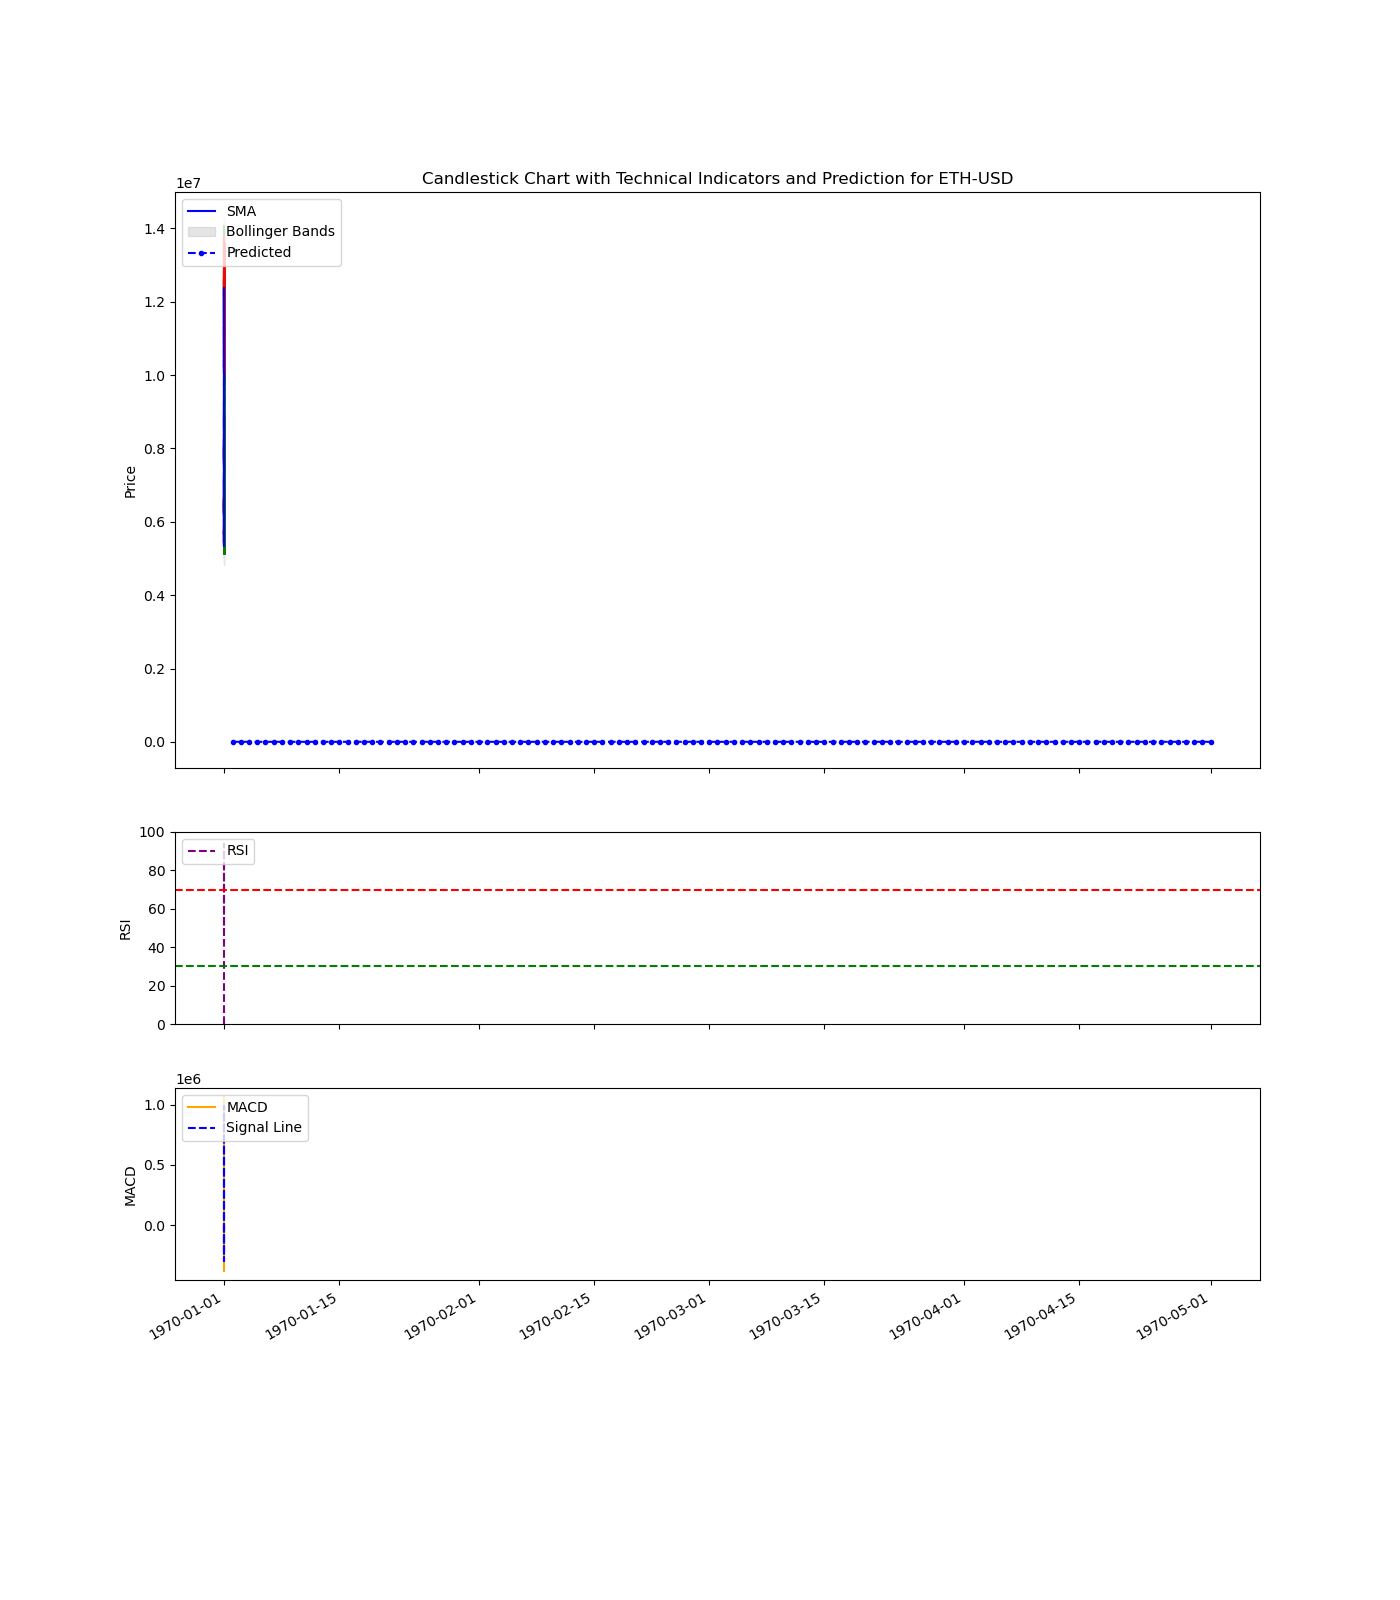
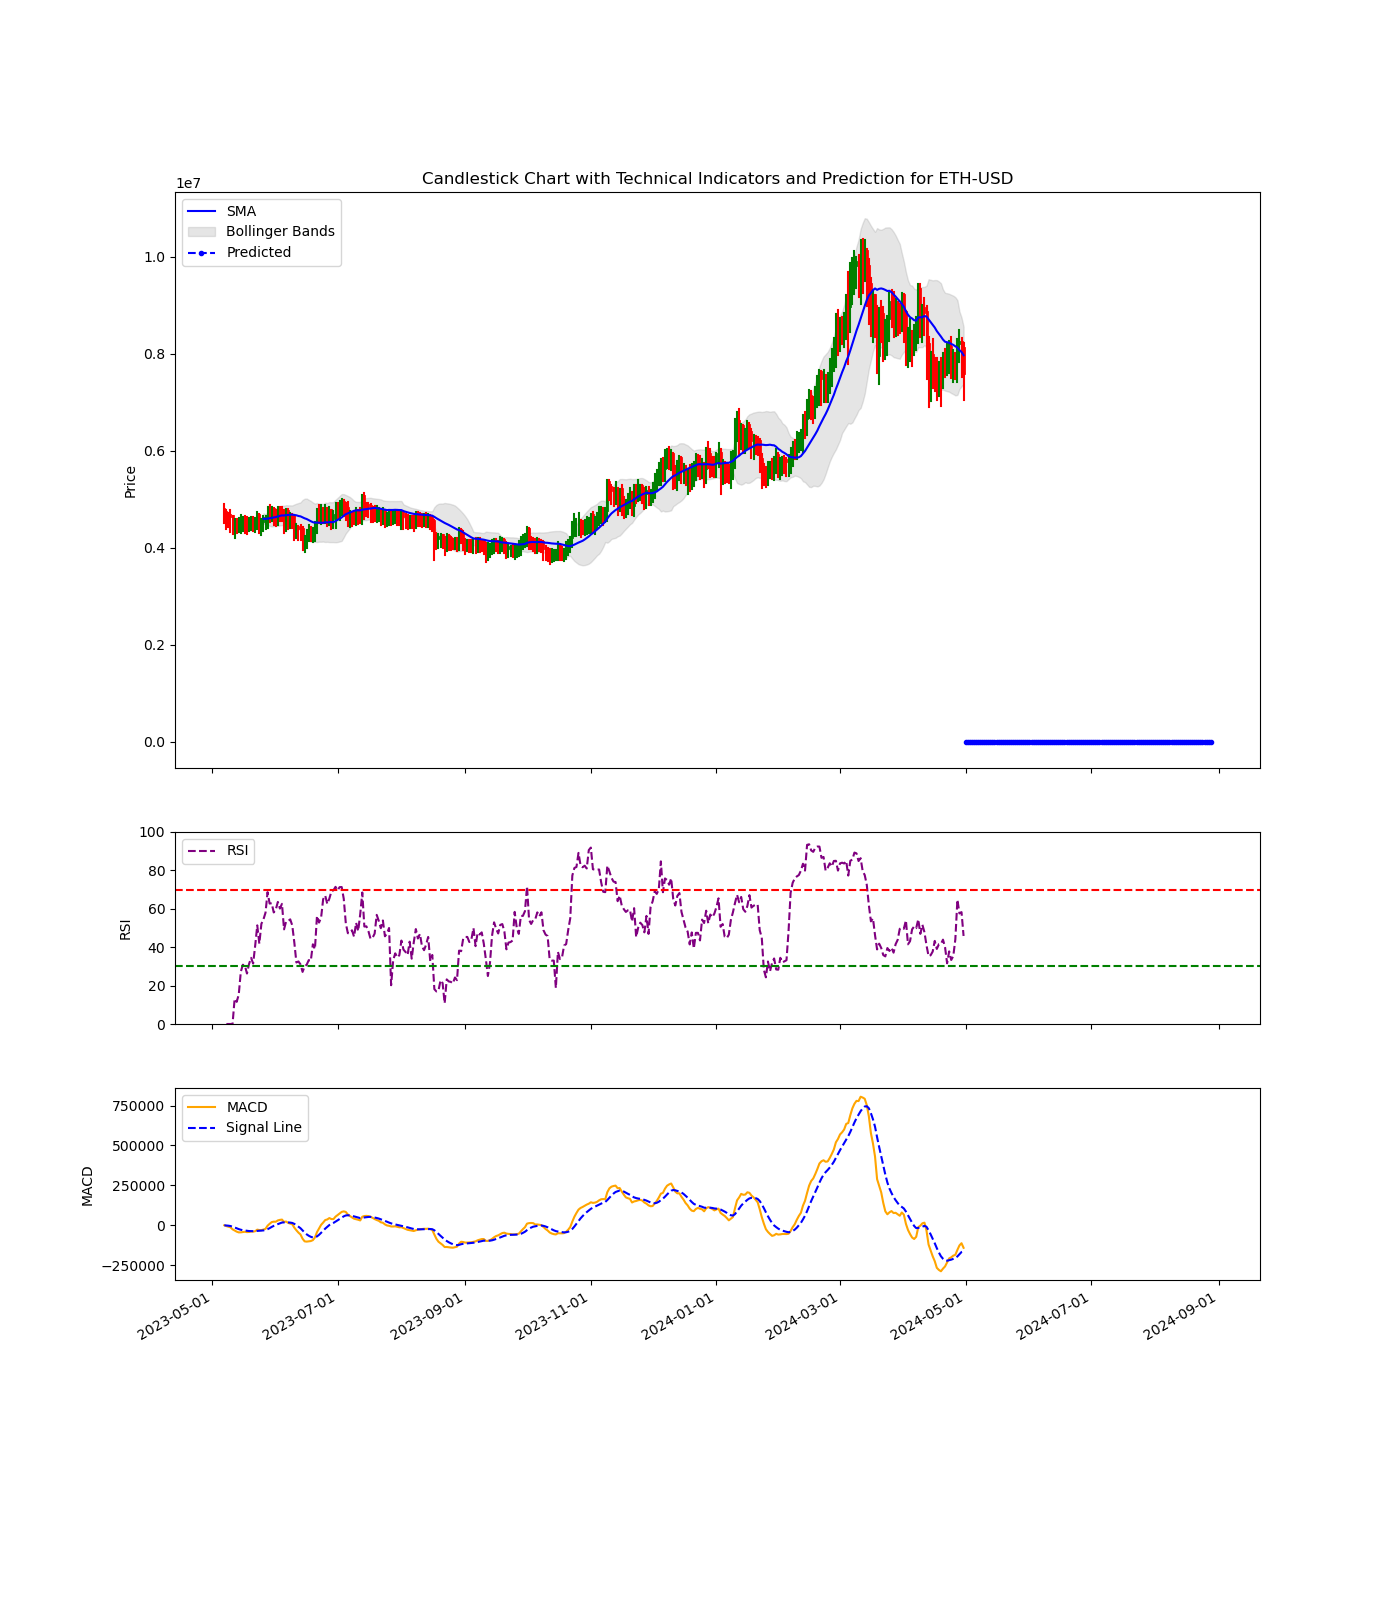
'train' graph corrected, prediciton not good

diff --git a/predictor.py b/predictor.py
@@ -12,7 +12,7 @@ import yfinance as yf
 from sklearn.model_selection import TimeSeriesSplit
 import os
 
-plt.switch_backend('agg')
+
 
 def get_yahoo_finance_data(tickers, interval='1d', start='2023-04-01', end='2024-05-01'):
     all_data = pd.DataFrame()
@@ -58,14 +58,15 @@ def compute_bollinger_bands(series, window=20, num_std_dev=2):
 def normalize_data(df):
     scaler = MinMaxScaler()
     feature_columns = ['Open', 'High', 'Low', 'Close', 'SMA', 'RSI', 'MACD', 'SignalLine', 'BollingerUpper', 'BollingerLower']
-    df[feature_columns] = scaler.fit_transform(df[feature_columns])
+    df_features = df[feature_columns]
+    df[feature_columns] = scaler.fit_transform(df_features)
     return df, scaler
 
-
-def plot_candlestick(df, predicted_dates, predicted_values, ticker, features, scaler_transform,display_plot=False, plot_tech_indicators=False, previous_data_length=360):
+def plot_candlestick(df, predicted_dates, predicted_values, ticker, features, scaler_transform, display_plot=False, plot_tech_indicators=False, previous_data_length=360):
     df[features] = scaler_transform.inverse_transform(df[features])
     df = df.copy()
-    df['Date'] = df.index.map(mdates.date2num)
+    df['Date'] = df['Date'].map(mdates.date2num)
+    print(df['Date'].head())
     
     # Filter data to include only the required amount of previous data
     df = df.iloc[-previous_data_length:]
@@ -231,6 +232,9 @@ def predict_and_plot(model, data, ticker, scaler, sequence_length=30, interval='
     # Filter data for the specified ticker
     data = data[data['Ticker'] == ticker]
     
+    # Preserve the date index as a column
+    data['Date'] = data.index
+    
     feature_columns = ['Open', 'High', 'Low', 'Close', 'SMA', 'RSI', 'MACD', 'SignalLine', 'BollingerUpper', 'BollingerLower']
     data_scaled = scaler.transform(data[feature_columns])
     
@@ -252,12 +256,9 @@ def predict_and_plot(model, data, ticker, scaler, sequence_length=30, interval='
         new_input = torch.tensor([[0, 0, 0, predicted, 0, 0, 0, 0, 0, 0]], dtype=torch.float32).to(device)
         x_input = torch.cat((x_input[:, :, 1:], new_input.unsqueeze(2)), dim=2)
     
-    print(f'Predicted values for next {sequence_length} intervals for {ticker}: {predictions}')
-    
     # Extract the last portion of the data for plotting previous candlestick data
     last_data = data.iloc[-previous_data_length:]
-    last_date = last_data.index[-1]  # Get the most recent date in the data
-
+    last_date = last_data['Date'].iloc[-1]  # Get the most recent date in the data
 
     # Generate future dates based on the last date and the interval
     if interval in ['15m', '1h', '4h']:
@@ -270,10 +271,9 @@ def predict_and_plot(model, data, ticker, scaler, sequence_length=30, interval='
     future_dates = future_dates[1:]  # Skip the first date since it's the same as the last_date
 
     # Plot the candlestick chart with previous data and predicted values
-    plot_candlestick(last_data, future_dates, predictions, ticker,feature_columns,scaler,
-                      display_plot, plot_tech_indicators,previous_data_length)
+    plot_candlestick(last_data, future_dates, predictions, ticker, feature_columns, scaler,
+                      display_plot, plot_tech_indicators, previous_data_length)
 
-  
 if __name__ == "__main__":
     tickers = ['BTC-USD', 'ETH-USD', 'BNB-USD', 'ADA-USD', 'XRP-USD', 'SOL-USD', 'DOT-USD', 'DOGE-USD', 'UNI-USD', 'LTC-USD', 
                'LINK-USD', 'BCH-USD', 'XLM-USD', 'FIL-USD', 'TRX-USD', 'EOS-USD', 'ATOM-USD', 'ETC-USD', 'XTZ-USD', 'MKR-USD']
@@ -284,19 +284,21 @@ if __name__ == "__main__":
     
     sequence_length = 120
     batch_size = 12
-    epochs = 500
+    epochs = 200
     interval = '1d'
     log_dir = 'runs'
     model_path = 'model.pth'
     plot_tech_indicators = True
     
+    scaler_dict = {}
+
     if mode == 'train':
         all_data = get_yahoo_finance_data(tickers, interval=interval)
         
-        all_data = all_data.groupby('Ticker').apply(add_technical_indicators).reset_index(drop=True)
+        # Apply technical indicators without resetting the index
+        all_data = all_data.groupby('Ticker').apply(add_technical_indicators).reset_index(level=0, drop=True)
         
         if not all_data.empty:
-            scaler = MinMaxScaler()
             model = CNNRNNModel(input_channels=10, rnn_hidden_size=batch_size, sequence_length=sequence_length)
             
             if continue_training and os.path.exists(model_path):
@@ -308,23 +310,23 @@ if __name__ == "__main__":
             for ticker in tickers:
                 print(f"Processing data for {ticker}...")
                 ticker_data = all_data[all_data['Ticker'] == ticker]
-                ticker_data, scaler = normalize_data(ticker_data)
+                ticker_data, scaler_dict[ticker] = normalize_data(ticker_data)
                 print(f"Training the model with {ticker} data...")
                 model = train_model(model, ticker_data[['Open', 'High', 'Low', 'Close', 'SMA', 'RSI', 'MACD', 'SignalLine', 'BollingerUpper', 'BollingerLower']].values, batch_size=batch_size, epochs=epochs, sequence_length=sequence_length, log_dir=log_dir, ticker=ticker)
             
             save_model(model, model_path)
             
             print(f"Predicting and plotting for {chosen_ticker}...")
-            predict_and_plot(model, all_data, chosen_ticker, scaler, sequence_length=sequence_length, interval=interval, display_plot=True, plot_tech_indicators=plot_tech_indicators)
+            predict_and_plot(model, all_data, chosen_ticker, scaler_dict[chosen_ticker], sequence_length=sequence_length, interval=interval, display_plot=True, plot_tech_indicators=plot_tech_indicators)
         else:
             print("No data available for the specified parameters.")
     elif mode == 'predict':
         all_data = get_yahoo_finance_data([chosen_ticker], interval=interval)
         all_data = add_technical_indicators(all_data)
-        all_data, scaler = normalize_data(all_data)
+        all_data, scaler_dict[chosen_ticker] = normalize_data(all_data)
         
         model = CNNRNNModel(input_channels=10, rnn_hidden_size=batch_size, sequence_length=sequence_length)
         model = load_model(model, model_path)
         
         print(f"Predicting and plotting for {chosen_ticker}...")
-        predict_and_plot(model, all_data, chosen_ticker, scaler, sequence_length=sequence_length, interval=interval, display_plot=True, plot_tech_indicators=plot_tech_indicators)
+        predict_and_plot(model, all_data, chosen_ticker, scaler_dict[chosen_ticker], sequence_length=sequence_length, interval=interval, display_plot=True, plot_tech_indicators=plot_tech_indicators)
